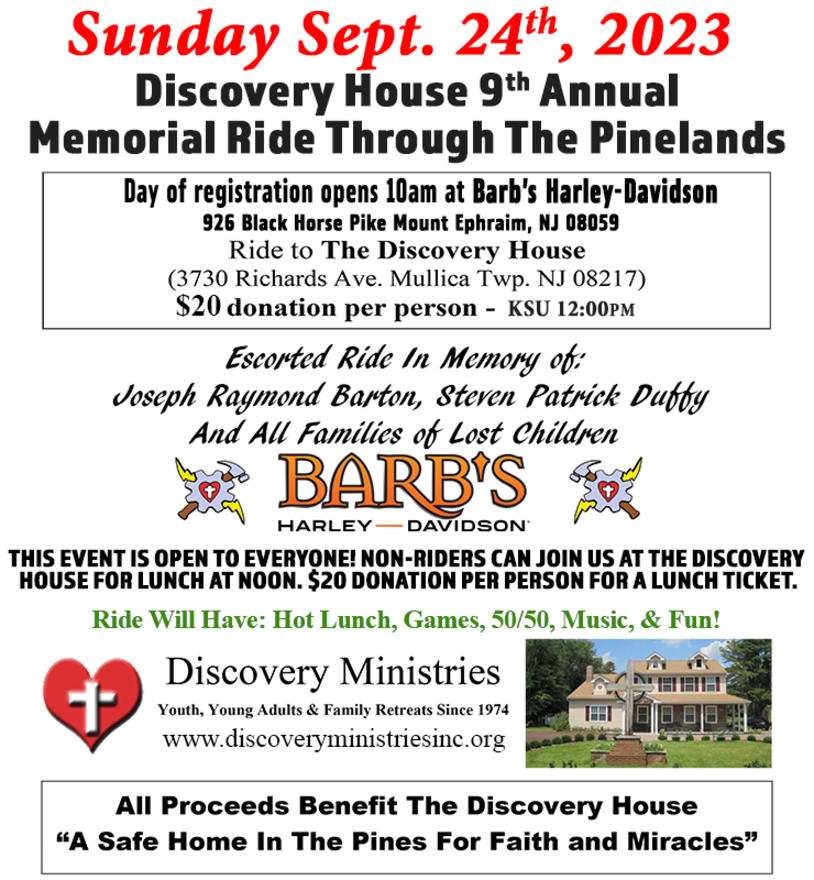
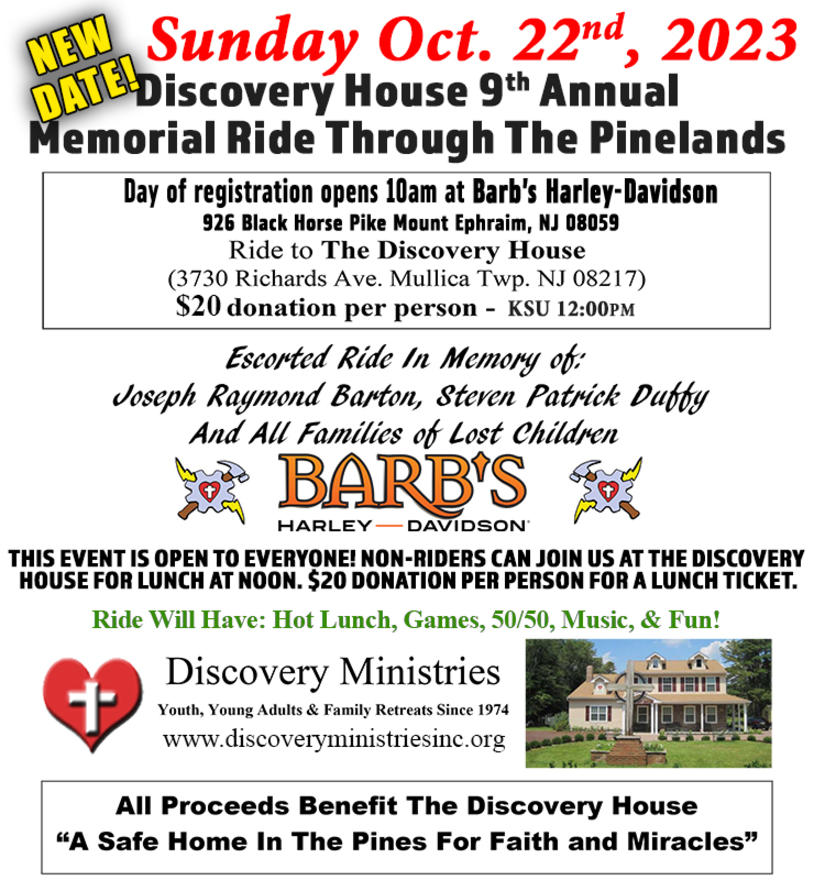
JS slideshow  mouseover function

Changed region(s): [[0.0, 0.0, 0.9828, 0.1534]]

diff --git a/index.html b/index.html
@@ -93,14 +93,9 @@
                                         
                     <ul id="anouncements">
                         <li>Next general meeting to be held on Friday, October 13 at 6:30 pm</li>
-                        <li>We ride every Wed - Sat - Sun. Meet up 9am at Barb's HD. </li>                    
-                   
-                    
-                    <!-- <img id="lhpic" src="Images\PageImg\DiscoveryHouse.jpg"> -->
-                    
-                    
-                        <li>Unfortunately the Lighthouse Ride is postpone till spring 2024 due to inclement weather.</li>
-                        <img id="lhpic" src="Images\PageImg\postponed-lighthouse_ride.jpeg">
+                        <li>We ride every Wed - Sat - Sun. Meet up 9am at Barb's HD. </li>                                    
+                        <li>Barb's HD Discovery House 9th Annual Memorial Ride will be Sunday Oct. 22nd, 2023.</li>
+                        <img id="lhpic" src="Images\PageImg\DiscoveryHouse.jpg">
                         <li> Check out <a href="https://polarbeargrandtour.com/index.htm" target="_blank">Polar Bear Grand Tour </a> for winter rides. </li>
                         <img id="lhpic" src="Images\PageImg\polarBear.jpeg">
                     </ul>

diff --git a/funtions.js b/funtions.js
@@ -20,10 +20,18 @@
         let slideIndex = 1;
         showSlides(slideIndex);
         autoSlide();
+     
+        let slideshowContainers = document.getElementsByClassName("slideshow-container");
+        for (let i = 0; i < slideshowContainers.length; i++) {
+            slideshowContainers[i].addEventListener("mouseover", stopAutoSlide );
+            slideshowContainers[i].addEventListener("mouseout", startAutoSlide);
+        
+    }
     });
-    
+
     let slideIndex = 1;
-    
+    let slideInterval;
+
     function plusSlides(n) {
         showSlides(slideIndex += n);
     }
@@ -53,8 +61,15 @@
     }
     
     function autoSlide() {
-        setInterval(function() {
+        slideInterval = setInterval(function() {
             plusSlides(1); 
-        }, 2000); 
+        }, 5000); 
     }
-    
+
+    function stopAutoSlide(){
+        clearInterval(slideInterval);
+    }
+
+    function startAutoSlide(){
+        autoSlide();
+    }
